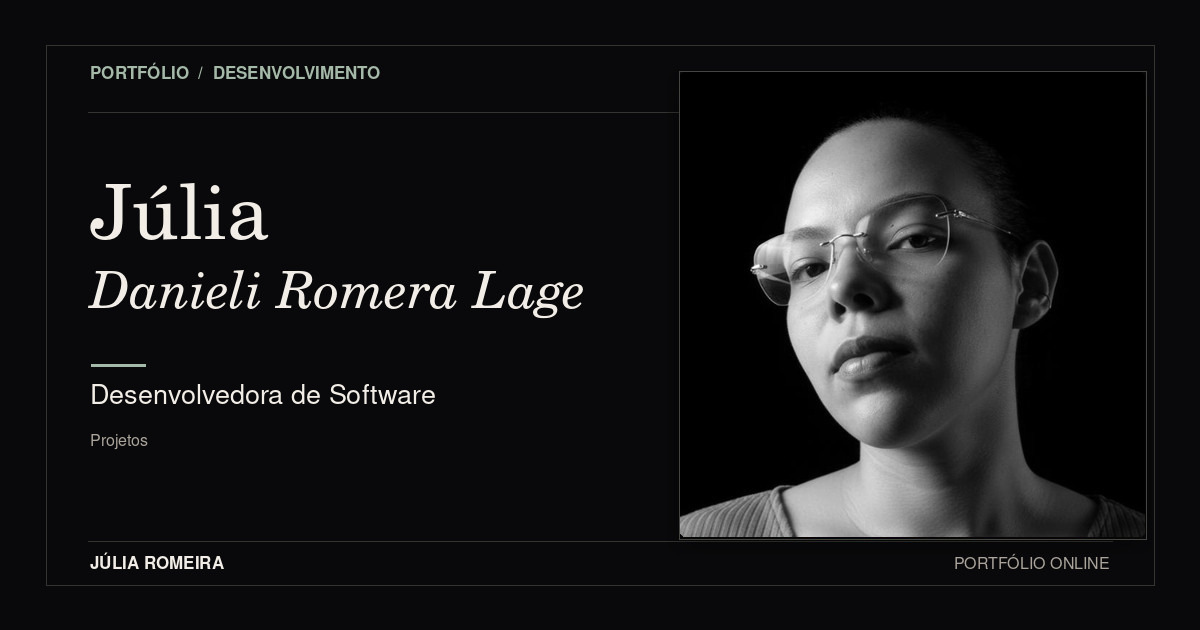
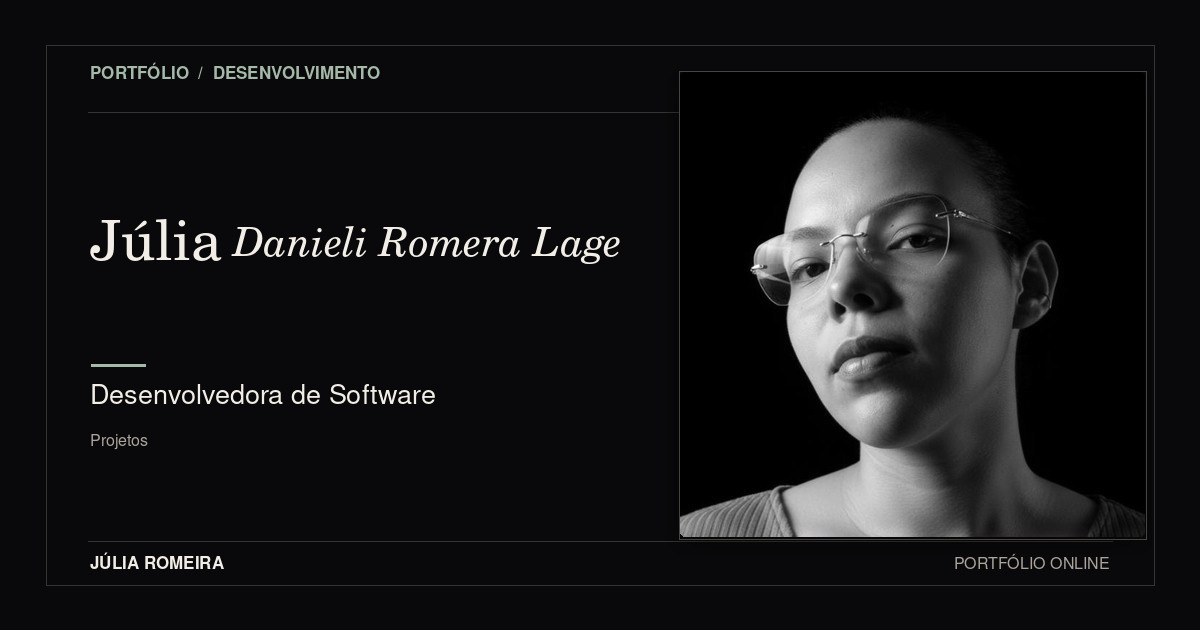
refine: coloca o nome completo em uma linha na OG image

Changed region(s): [[0.0617, 0.2714, 0.5242, 0.5127]]

diff --git a/index.html b/index.html
@@ -18,7 +18,7 @@
     <meta property="og:title" content="Júlia Romera | Desenvolvimento de Software" />
     <meta property="og:description" content="Conheça o portfólio de Júlia Romera: soluções digitais pensadas para resolver problemas reais com clareza e propósito." />
     <meta property="og:url" content="https://portfolio-julia-nine.vercel.app/" />
-    <meta property="og:image" content="https://portfolio-julia-nine.vercel.app/assets/social-preview.jpg?v=20261013-5" />
+    <meta property="og:image" content="https://portfolio-julia-nine.vercel.app/assets/social-preview.jpg?v=20261013-6" />
     <meta property="og:image:type" content="image/jpeg" />
     <meta property="og:image:width" content="1200" />
     <meta property="og:image:height" content="630" />
@@ -26,7 +26,7 @@
     <meta name="twitter:card" content="summary_large_image" />
     <meta name="twitter:title" content="Júlia Romera | Desenvolvimento de Software" />
     <meta name="twitter:description" content="Conheça o portfólio de Júlia Romera: soluções digitais pensadas para resolver problemas reais com clareza e propósito." />
-    <meta name="twitter:image" content="https://portfolio-julia-nine.vercel.app/assets/social-preview.jpg?v=20261013-5" />
+    <meta name="twitter:image" content="https://portfolio-julia-nine.vercel.app/assets/social-preview.jpg?v=20261013-6" />
     <meta name="twitter:image:alt" content="Retrato em preto e branco de Júlia Danieli Romera Lage ao lado do título Desenvolvedora de Software." />
     <title>Júlia Danieli Romera Lage | Desenvolvimento de Software</title>
     <link rel="icon" href="/favicon.ico" sizes="16x16 32x32 48x48" />
